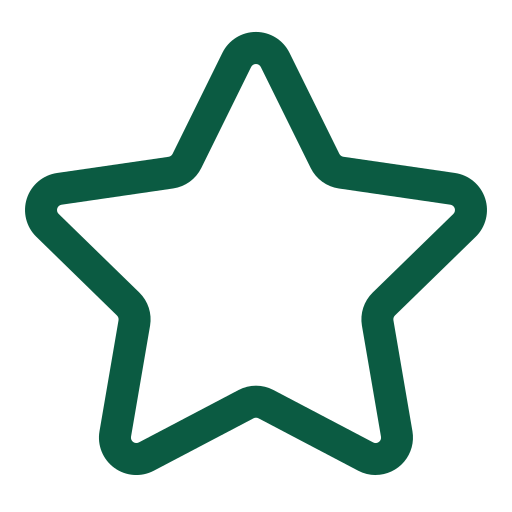
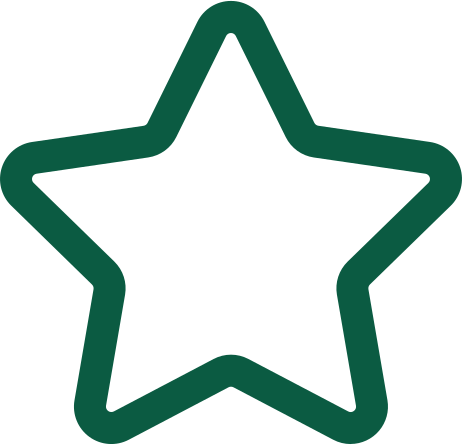
design: adjust notice tile star size

Changed region(s): [[0.0, 0.0, 0.9978, 1.0]]

diff --git a/notiskku/lib/widget/list/list_recent_search.dart b/notiskku/lib/widget/list/list_recent_search.dart
@@ -43,7 +43,7 @@ class ListRecentSearchState extends ConsumerState<ListRecentSearch> {
                 children: [
                   Text(
                     searchedTexts[reversedIndex],
-                    style: textTheme.bodyMedium?.copyWith(fontSize: 15.sp),
+                    style: textTheme.bodyMedium?.copyWith(fontSize: 13.sp),
                   ),
                   GestureDetector(
                     onTap: () {

diff --git a/notiskku/lib/widget/notice_tile.dart b/notiskku/lib/widget/notice_tile.dart
@@ -126,8 +126,8 @@ class _NoticeTileState extends ConsumerState<NoticeTile> {
                       tempStarredNotices.contains(hash))
                   ? 'assets/images/fullstar_fix.png'
                   : 'assets/images/emptystar_fix.png',
-              width: 26.w,
-              height: 26.h,
+              width: 23.w,
+              height: 23.h,
               color: scheme.primary,
             ),
           ),
